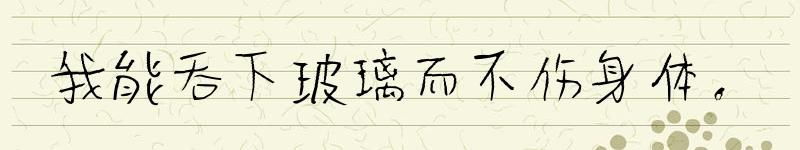
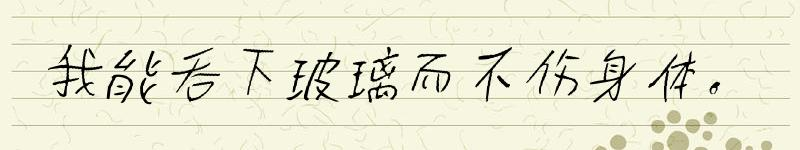
字体宽度从由font_size决定改为由每个字符自己的信息决定;为is_half_char和is_end_char提供缺省值。

Changed region(s): [[0.0625, 0.2933, 0.9062, 0.6933]]

diff --git a/pylf/handwriting.py b/pylf/handwriting.py
@@ -7,6 +7,9 @@ import PIL.Image
 import PIL.ImageDraw
 
 
+_END_CHARS = "，。》、？；：’”】｝、！％）" + ",.>?;:]}!%)" + "′″℃℉"
+
+
 def handwrite(text, template: dict, anti_aliasing: bool=True, worker: int=0) -> list:
     """
     Simulating Chinese handwriting through introducing numerous randomness in the process.
@@ -26,9 +29,6 @@ def handwrite(text, template: dict, anti_aliasing: bool=True, worker: int=0) -> 
             NOTE: The bounding area should be in the 'background'. In other words, it should be in (0, 0,
             background.width, background.height).
             NOTE: The function DO NOT guarantee the drawn texts would absolutely in the 'box' due to the randomness used.
-        'color': (<int>, <int>, <int>)
-            The color of font in RGB. These values should be within [0, 255].
-            default: (0, 0, 0)
         'font': <FreeTypeFont>
             Note that the size of the FreeTypeFont Object means nothing in the function.
         'font_size': <int>
@@ -40,12 +40,18 @@ def handwrite(text, template: dict, anti_aliasing: bool=True, worker: int=0) -> 
         'word_spacing': <int>
         'word_spacing_sigma': <float>
             The sigma of the gauss distribution of word spacing
+
+        Optional:
+        'color': (<int>, <int>, <int>)
+            The color of font in RGB. These values should be within [0, 255].
+            default: (0, 0, 0)
         'is_half_char': <callable>
-            A function judges whether or not a char only take up half of the horizontal space of other char (e.g. 'a',
-            '?', '2')
+            A function judges whether or not a char only take up half of its original width
             The function should take a char parameter and return a boolean value.
+            The feature is designed for some of Chinese punctuations that usually only take up the left half of their
+            space (e.g. '，', '。').
         'is_end_char': <callable>
-            A function judges whether or not a char can NOT be in the beginning of the lines (e.g. ',' , '!')
+            A function judges whether or not a char can NOT be in the beginning of the lines (e.g. '，' , '。', '》')
 
         Advanced:
         If you do NOT fully understand the algorithm, please leave these value default.
@@ -77,6 +83,10 @@ def handwrite(text, template: dict, anti_aliasing: bool=True, worker: int=0) -> 
     font_size = template['font_size']
     if 'color' not in template:
         template['color'] = (0, 0, 0)
+    if 'is_half_char' not in template:
+        template['is_half_char'] = lambda c: False
+    if 'is_end_char' not in template:
+        template['is_end_char'] = lambda c: c in _END_CHARS
     if 'x_amplitude' not in template:
         template['x_amplitude'] = 0.06 * font_size
     if 'y_amplitude' not in template:
@@ -162,8 +172,10 @@ def _draw_text(
                     break
                 actual_font_size = int(random.gauss(font_size, font_size_sigma))
                 xy = x, int(random.gauss(y, line_spacing_sigma))
-                draw.text(xy, char, fill=(*color, 255), font=font.font_variant(size=actual_font_size))
-                x_step = word_spacing + actual_font_size * (1 / 2 if is_half_char(char) else 1)
+                font = font.font_variant(size=actual_font_size)
+                draw.text(xy, char, fill=(*color, 255), font=font)
+                font_width = font.getsize(char)[0]
+                x_step = word_spacing + font_width * (1 / 2 if is_half_char(char) else 1)
                 x += int(random.gauss(x_step, word_spacing_sigma))
                 i += 1
             y += line_spacing

diff --git a/tests/test_handwrite.py b/tests/test_handwrite.py
@@ -13,8 +13,6 @@ template = {
     'line_spacing_sigma': 0.5,
     'word_spacing': 0,
     'word_spacing_sigma': 1,
-    'is_half_char': lambda c: c.isdigit() or c in ('!', '.', '?', ',', '，', '。'),
-    'is_end_char': lambda c: c in ('!', '.', '?', ',', '，', '。')
 }
 text = """我能吞下玻璃而不伤身体。"""
 
@@ -55,6 +53,7 @@ class TestHandwrite(unittest.TestCase):
         import os
         print('Test by naked eyes:')
         prompt = "{}\npass test? [Y/N] \n"
+
         tmp = self.__copy()[1]
         dir_path, dir_names, file_names = list(os.walk("./data/texts"))[0]
         for filename in file_names:
@@ -74,7 +73,7 @@ class TestHandwrite(unittest.TestCase):
         txt = "测试‘box’比背景图大的情况。"
         tmp = self.__copy()[1]
         tmp['box'] = (-100, -100, im.width + 100, im.height + 100)
-        images = handwrite(txt * 100, tmp)
+        images = handwrite(txt * 150, tmp)
         for im in images:
             im.show()
         self.assertTrue(input(prompt.format(txt)).upper() == 'Y')
@@ -96,6 +95,24 @@ class TestHandwrite(unittest.TestCase):
             for im in images:
                 im.show()
         self.assertTrue(input(prompt.format("测试颜色")).upper() == 'Y')
+
+        txt = """测试is_half_char　= lambda c: c in ('，', '。')
+        ，，，，，，，，。。。。。。。。。。。"""
+        tmp = self.__copy()[1]
+        tmp['is_half_char'] = lambda c: c in ('，', '。')
+        images = handwrite(txt, tmp)
+        for im in images:
+            im.show()
+        self.assertTrue(input(prompt.format("测试is_half_char")).upper() == 'Y')
+
+        txt = """测试is_end_char　= lambda c: False
+        。。。。。。。。。。。。。。。。。。。。。。。。"""
+        tmp = self.__copy()[1]
+        tmp['is_end_char'] = lambda c: False
+        images = handwrite(txt, tmp)
+        for im in images:
+            im.show()
+        self.assertTrue(input(prompt.format("测试is_end_char")).upper() == 'Y')
 
 
 if __name__ == '__main__':

diff --git a/examples/i_can_eat_glass.py b/examples/i_can_eat_glass.py
@@ -11,12 +11,9 @@ def main():
         'font_size': 60,
         'font_size_sigma': 1,
         'line_spacing': 60,
-        'line_spacing_sigma': 1,
+        'line_spacing_sigma': 0.5,
         'word_spacing': 0,
         'word_spacing_sigma': 1,
-        'is_half_char': lambda c: c.isdigit() or c in ('！', '.', '？', ',', '，', '。', ' '),
-        'is_end_char': lambda c: c in ('！', '.', '？', ',' , '，', '。'),
-        'x_amplitude': 1
     }
     text = "我能吞下玻璃而不伤身体。"
     images = handwrite(text, template)

diff --git a/examples/hetangyuese.py b/examples/hetangyuese.py
@@ -14,8 +14,6 @@ def main():
         'line_spacing_sigma': 0.1,
         'word_spacing': 0,
         'word_spacing_sigma': 0.1,
-        'is_half_char': lambda c: c.isdigit() or c in ('！', '.', '？', ',', '，', '。', ' '),
-        'is_end_char': lambda c: c in ('！', '.', '？', ',' , '，', '。')
     }
     text = """                                   荷塘月色
     

diff --git a/CHANGES.md b/CHANGES.md
@@ -5,5 +5,11 @@ This file records the changes in *PyLf* library in reverse chronological order.
 [Gsllchb]
 * Improve docstring
 [Gsllchb]
-* **将黑色作为template的缺省颜色**
+* **将黑色作为*template*的缺省颜色**
+[Gsllchb]
+* **字体宽度从由*font_size*决定改为由每个字符自己的信息决定**
+[Gsllchb]
+* **将(lambda c: False)作为*template*的缺省*is_half_char***
+[Gsllchb]
+* **将是否在常见非开头字符集中作为*template*的缺省*is_end_char***
 [Gsllchb]
